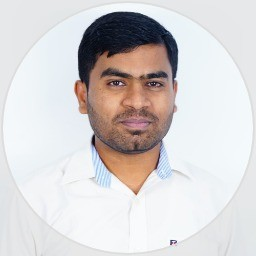
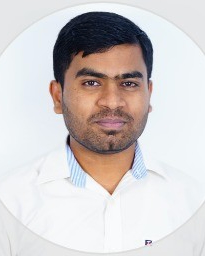
Update group and pubs

diff --git a/publications.html b/publications.html
@@ -84,13 +84,15 @@ MathJax.Hub.Config({
 </div></div>
 <h2>Journal papers</h2>
 <ol>
+<li><p><b>G. Bianchin</b> and B. Van Scoy, &ldquo;<i>Feedback Optimization of Dynamical Systems in Time-Varying Environments: An Internal Model Principle Approach</i>,&rdquo; <i>IEEE Transactions on Automatic Control</i>, jul. 2026, (To appear), arXiv:2508.03503 [<a href="https://doi.org/10.1109/TAC.2026.3728355" target=&ldquo;blank&rdquo;>paper</a>] [<a href="https://arxiv.org/abs/2508.03503" target=&ldquo;blank&rdquo;>arXiv</a>] [<a href="PAPERS/GB-BVS-25.pdf" target=&ldquo;blank&rdquo;>pdf</a>]</p>
+</li>
 <li><p>A. Mehrnoosh, G. Speciale, R. Brumali, G. Notarstefano and <b>G. Bianchin</b>, &ldquo;<i>Model-Free Aggregative Cooperative Optimization via Randomized Gradient-Free Minimization and Exploration Momentum</i>,&rdquo; <i>arXiv</i>, apr. 2026, arXiv:2604.07164 [<a href="https://arxiv.org/abs/2604.07164" target=&ldquo;blank&rdquo;>arXiv</a>] [<a href="PAPERS/AM-GS-RB-GN-GB-26-arxiv.pdf" target=&ldquo;blank&rdquo;>pdf</a>]</p>
 </li>
 <li><p>C. Wang, H. Wan, <b>G. Bianchin</b>, X. Luan and F. Liu, &ldquo;<i>Multi-Objective Online Trade-Off Optimization for the Regulation of Glucaric Acid Production in Escherichia Coli</i>,&rdquo; <i>ACS Synthetic Biology</i>, mar. 2026, (Submitted)</p>
 </li>
 <li><p><b>G. Bianchin</b>, M. Vaquero, J. Cortés  and E. Dall'Anese, &ldquo;<i>The Role of Network Connectivity in Distributed \(k\)-Agreement Protocols</i>,&rdquo; <i>Automatica</i>, aug. 2026, (To appear) [<a href="https://doi.org/10.1016/j.automatica.2025.112753" target=&ldquo;blank&rdquo;>paper</a>] [<a href="PAPERS/GB-MV-JC-ED-26-automatica.pdf" target=&ldquo;blank&rdquo;>pdf</a>]</p>
 </li>
-<li><p><b>G. Bianchin</b> and B. Van Scoy, &ldquo;<i>The Internal Model Principle of Time-Varying Optimization</i>,&rdquo; <i>IEEE Transactions on Automatic Control</i>, aug. 2026, arXiv:2407.08037 [<a href="https://doi.org/10.1109/TAC.2026.3668002" target=&ldquo;blank&rdquo;>paper</a>] [<a href="https://arxiv.org/abs/2407.08037" target=&ldquo;blank&rdquo;>arXiv</a>] [<a href="PAPERS/GB-BVS-24.pdf" target=&ldquo;blank&rdquo;>pdf</a>]</p>
+<li><p><b>G. Bianchin</b> and B. Van Scoy, &ldquo;<i>The Internal Model Principle of Time-Varying Optimization</i>,&rdquo; <i>IEEE Transactions on Automatic Control</i>, pp. 5080-5095, vol. 71, no. 8, aug. 2026, arXiv:2407.08037 [<a href="https://doi.org/10.1109/TAC.2026.3668002" target=&ldquo;blank&rdquo;>paper</a>] [<a href="https://arxiv.org/abs/2407.08037" target=&ldquo;blank&rdquo;>arXiv</a>] [<a href="PAPERS/GB-BVS-24.pdf" target=&ldquo;blank&rdquo;>pdf</a>]</p>
 </li>
 <li><p><b>G. Bianchin</b> and B. Van Scoy, &ldquo;<i>Feedback Optimization of Dynamical Systems in Time-Varying Environments: An Internal Model Principle Approach</i>,&rdquo; <i>arXiv preprint</i>, jul. 2025, arXiv:2508.03503 [<a href="https://arxiv.org/abs/2508.03503" target=&ldquo;blank&rdquo;>arXiv</a>] [<a href="PAPERS/GB-BVS-25.pdf" target=&ldquo;blank&rdquo;>pdf</a>]</p>
 </li>
@@ -138,6 +140,8 @@ Control of Traffic Networks</i>,&rdquo; <i>IEEE Transactions on Intelligent Tran
 </ol>
 <h2>Conference proceedings</h2>
 <ol>
+<li><p>G. Robert and <b>G. Bianchin</b>, &ldquo;<i>Direct Search Methods for Online Nonconvex Optimization Inder Inexact Bandit Feedback</i>,&rdquo; in <i>arXiv</i>, 2026, 2608.08979 [<a href="https://arxiv.org/abs/2608.08979" target=&ldquo;blank&rdquo;>arXiv</a>] [<a href="PAPERS/GR-GB-26-arxiv.pdf" target=&ldquo;blank&rdquo;>pdf</a>]</p>
+</li>
 <li><p>B. Van Scoy and <b>G. Bianchin</b>, &ldquo;<i>Convex Synthesis of First-Order Methods for Time-Varying Smooth Strongly Convex Optimization</i>,&rdquo; in <i>arXiv</i>, 2026, arXiv:2604.09926 [<a href="https://arxiv.org/abs/2604.09926" target=&ldquo;blank&rdquo;>arXiv</a>] [<a href="PAPERS/BVS-GB-26-arxiv.pdf" target=&ldquo;blank&rdquo;>pdf</a>]</p>
 </li>
 <li><p>V. Digge, A. Saradagi and <b>G. Bianchin</b>, &ldquo;<i>Data-driven Adaptive Event-Triggered Control for Discrete-Time Systems</i>,&rdquo; in <i>IFAC World Congress</i>, 2026, (To appear) [<a href="PAPERS/VD-AS-GB-26-ifac.pdf" target=&ldquo;blank&rdquo;>pdf</a>]</p>
@@ -196,7 +200,7 @@ distributed Area Exploration</i>.&rdquo; Master's Thesis, University of Padova, 
 <div id="footer-container">
 <div id="footer">
 <div id="footer-text">
-Last edited  on June 29<sup>th</sup> 2026. </br>
+Last edited  on September 2<sup>nd</sup> 2026. </br>
 </div> <!-- <div id="footer-text"> -->
 </div> <!-- <div id="footer"> -->
 </div> <!-- <div id="footer-container"> -->

diff --git a/group.html b/group.html
@@ -82,7 +82,7 @@ MathJax.Hub.Config({
 <p>
 <div id="member-container" style="text-align: left; font-family: sans-serif;">
 <div style="display: inline-block; width: 200px; text-align: center; margin-right: 20px;">
-<img src="GROUP-PICS/Mehrnoosh_1.jpg" style="height: 180px; width: auto;">
+<img src="GROUP-PICS/AmirMehrnoosh.jpg" style="height: 180px; width: auto;">
 <p>
 <b>Amir Mehrnoosh</b><br>
 PhD Student<br>
@@ -103,7 +103,7 @@ Oct 2024–Present
 <b>Alexandre Thyrion</b><br>
 PhD Student<br>
 Sep 2024–Present<br>
-with F. Crevecoeur
+(co.adv. F. Crevecoeur)
 </p>
 </div>
 <div style="display: inline-block; width: 200px; text-align: center;">
@@ -112,6 +112,22 @@ with F. Crevecoeur
 <b>Arthur Mélot</b><br>
 PhD Student<br>
 Nov 2025–Present<br>
+</p>
+</div>
+<div style="display: inline-block; width: 200px; text-align: center;">
+<img src="GROUP-PICS/GasparRobert.jpg" style="height: 180px; width: auto;">
+<p>
+<b>Gaspar Robert</b></br>
+PhD Student<br>
+Sep 2026–Present<br>
+</p>
+</div>
+<div style="display: inline-block; width: 200px; text-align: center;">
+<img src="GROUP-PICS/YanisLahrach.jpg" style="height: 180px; width: auto;">
+<p>
+<b>Yanis Lahrach</b></br>
+PhD Student<br>
+Sep 2026–Present<br>
 </p>
 </div>
 </div>
@@ -260,7 +276,7 @@ Nov 2025–Present<br>
 <div id="footer-container">
 <div id="footer">
 <div id="footer-text">
-Last edited  on April 12<sup>th</sup> 2026  03:06PM (Time Zone: CEST). </br>
+Last edited  on September 2<sup>nd</sup> 2026  09:40AM (Time Zone: CEST). </br>
 </div> <!-- <div id="footer-text"> -->
 </div> <!-- <div id="footer"> -->
 </div> <!-- <div id="footer-container"> -->

diff --git a/index.html b/index.html
@@ -279,13 +279,11 @@ Hybrid Accelerated Gradient Flows</a>&rdquo; is available on ArXiv</p>
 <li><p>[Mar 20] Our paper &ldquo;<a href="https://arxiv.org/pdf/2003.10018.pdf" target=&rdquo;blank&ldquo;>Navigation Systems May Deteriorate Stability in Traffic Networks</a>&rdquo; is available on ArXiv</p>
 </li>
 </ul>
-<h2></h2>
-<a><img src="https://s05.flagcounter.com/count2/qGfw/bg_FFFFFF/txt_000000/border_CCCCCC/columns_3/maxflags_9/viewers_0/labels_0/pageviews_0/flags_0/percent_0/" alt="Flag Counter" border="0"></a>
 </div> <!-- <div id="layout-content"> -->
 <div id="footer-container">
 <div id="footer">
 <div id="footer-text">
-Last edited  on April 28<sup>th</sup> 2026  01:46PM (Time Zone: CEST). </br>
+Last edited  on September 2<sup>nd</sup> 2026  09:40AM (Time Zone: CEST). </br>
 </div> <!-- <div id="footer-text"> -->
 </div> <!-- <div id="footer"> -->
 </div> <!-- <div id="footer-container"> -->
